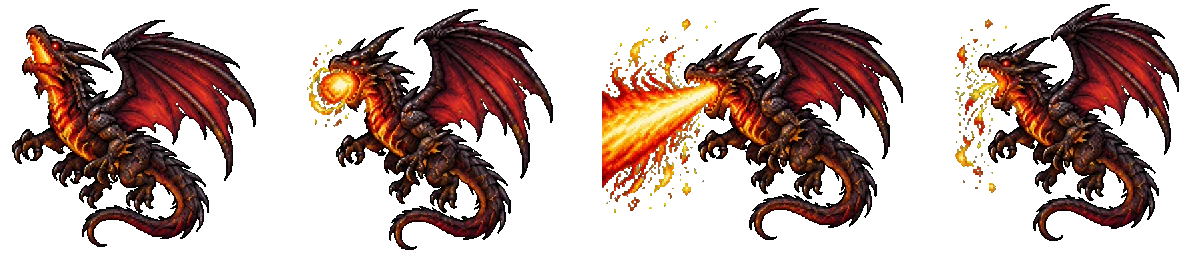
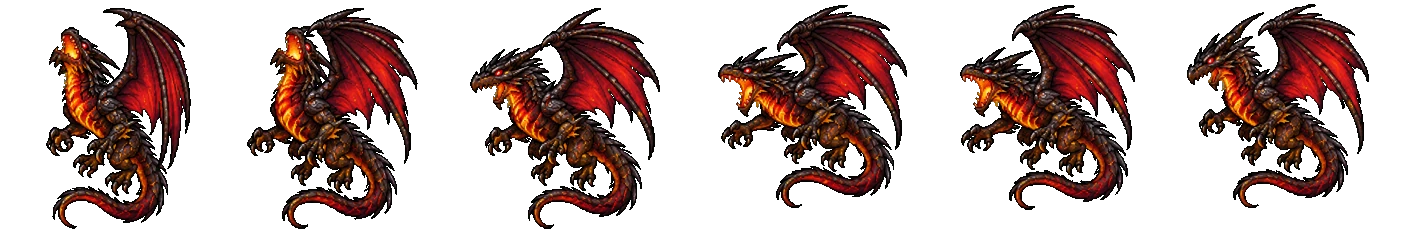
feat(v2cap): 黒龍ヴァルゼノクのドット絵版を8コマの待機・黒爪・焦熱の吐息で作り直し（8コマも半分に縮める・待機の枠229px）、イラスト版の絵は「イラスト版」フォルダに分けて置けるように（ユーザー指示「今のドット絵VERも試したいから、それぞれ分けて作れるようにして」・制作帳も共通／ドット絵版／イラスト版に分けた・SQL不要）

diff --git a/src/v2cap/lib/bossArt.js b/src/v2cap/lib/bossArt.js
@@ -4,6 +4,10 @@
 // 【確定】2026-10-28 ユーザー指示「先にヴァルゼノクのイラストとドット絵モーション作りたい」
 //   「ドット絵戦闘時のモーションでは常に羽ばたいてるモーションで、攻撃モーションはスキルによって色々変えたい」
 //   ＋技の案「この技の案で絵を作り始める」（黒爪・焦熱の吐息・黒翼烈風・終焉の黒焔）→ ユーザーが ChatGPT で作って置いた。
+//   ★2026-10-28 竜の見せ方を2通り作って比べる（ユーザー「グラブルの戦闘みたいにどんと大きく、イラストで」→「イラスト＋パーツで行きたい」
+//     →「今のドット絵VERも試したいから、それぞれ分けて作れるようにして」）：
+//     ドット絵版＝このファイルの決まり（下のフォルダの直下）／イラスト版＝フォルダの中の「イラスト版」（立ち絵・パーツ4枚・塗りのエフェクト。
+//     画面に入れるのはパーツが届いてから）。遭遇のイラストは2つで共通。プロンプトは制作帳 https://claude.ai/artifact/TGEALMhbHoSS7XRiv7R7Y6
 //   元の絵（ユーザーが置く・git に入れない）：public/エネミー/IDダンジョン/<フォルダ>/
 //     イラスト.png … 遭遇のイラスト（透明な背景）
 //     待機.png     … 2段に並べたコマ・ずっと羽ばたく（最後のあと①へつながる）・真緑の背景・左向き

diff --git a/src/v2cap/lib/bossArtList.js b/src/v2cap/lib/bossArtList.js
@@ -3,13 +3,13 @@
 //   motions … 技のキー → コマの数・1コマの大きさ（w・h）・待機の枠の左上が1コマの中のどこにあるか（ox・oy）・1コマの長さ・当たるコマ（0から）
 export const BOSS_ART = {
   varuzenoku: {
-    base: 253, illust: true,
-    idle: { frames: 6, ms: [200, 90, 90, 170, 130, 130] },
+    base: 229, illust: true,
+    idle: { frames: 8, ms: [200, 70, 70, 80, 170, 110, 110, 110] },
     motions: {
-      claw: { frames: 4, w: 261, h: 253, ox: 2, oy: 0, ms: [110, 110, 200, 140], hit: 2 },
-      breath: { frames: 4, w: 301, h: 253, ox: 6, oy: 0, ms: [160, 200, 320, 220], hit: 2 },
-      gale: { frames: 4, w: 268, h: 253, ox: 6, oy: 0, ms: [150, 180, 300, 220], hit: 2 },
-      doom: { frames: 4, w: 279, h: 258, ox: 6, oy: 0, ms: [220, 320, 420, 320], hit: 2 },
+      claw: { frames: 6, w: 229, h: 230, ox: 0, oy: 0, ms: [100, 100, 60, 160, 120, 100], hit: 3 },
+      breath: { frames: 6, w: 235, h: 230, ox: 6, oy: 0, ms: [150, 200, 90, 200, 200, 120], hit: 3 },
+      gale: { frames: 4, w: 252, h: 232, ox: 0, oy: 2, ms: [150, 180, 300, 220], hit: 2 },
+      doom: { frames: 4, w: 261, h: 235, ox: 0, oy: 0, ms: [220, 320, 420, 320], hit: 2 },
     },
   },
 }
